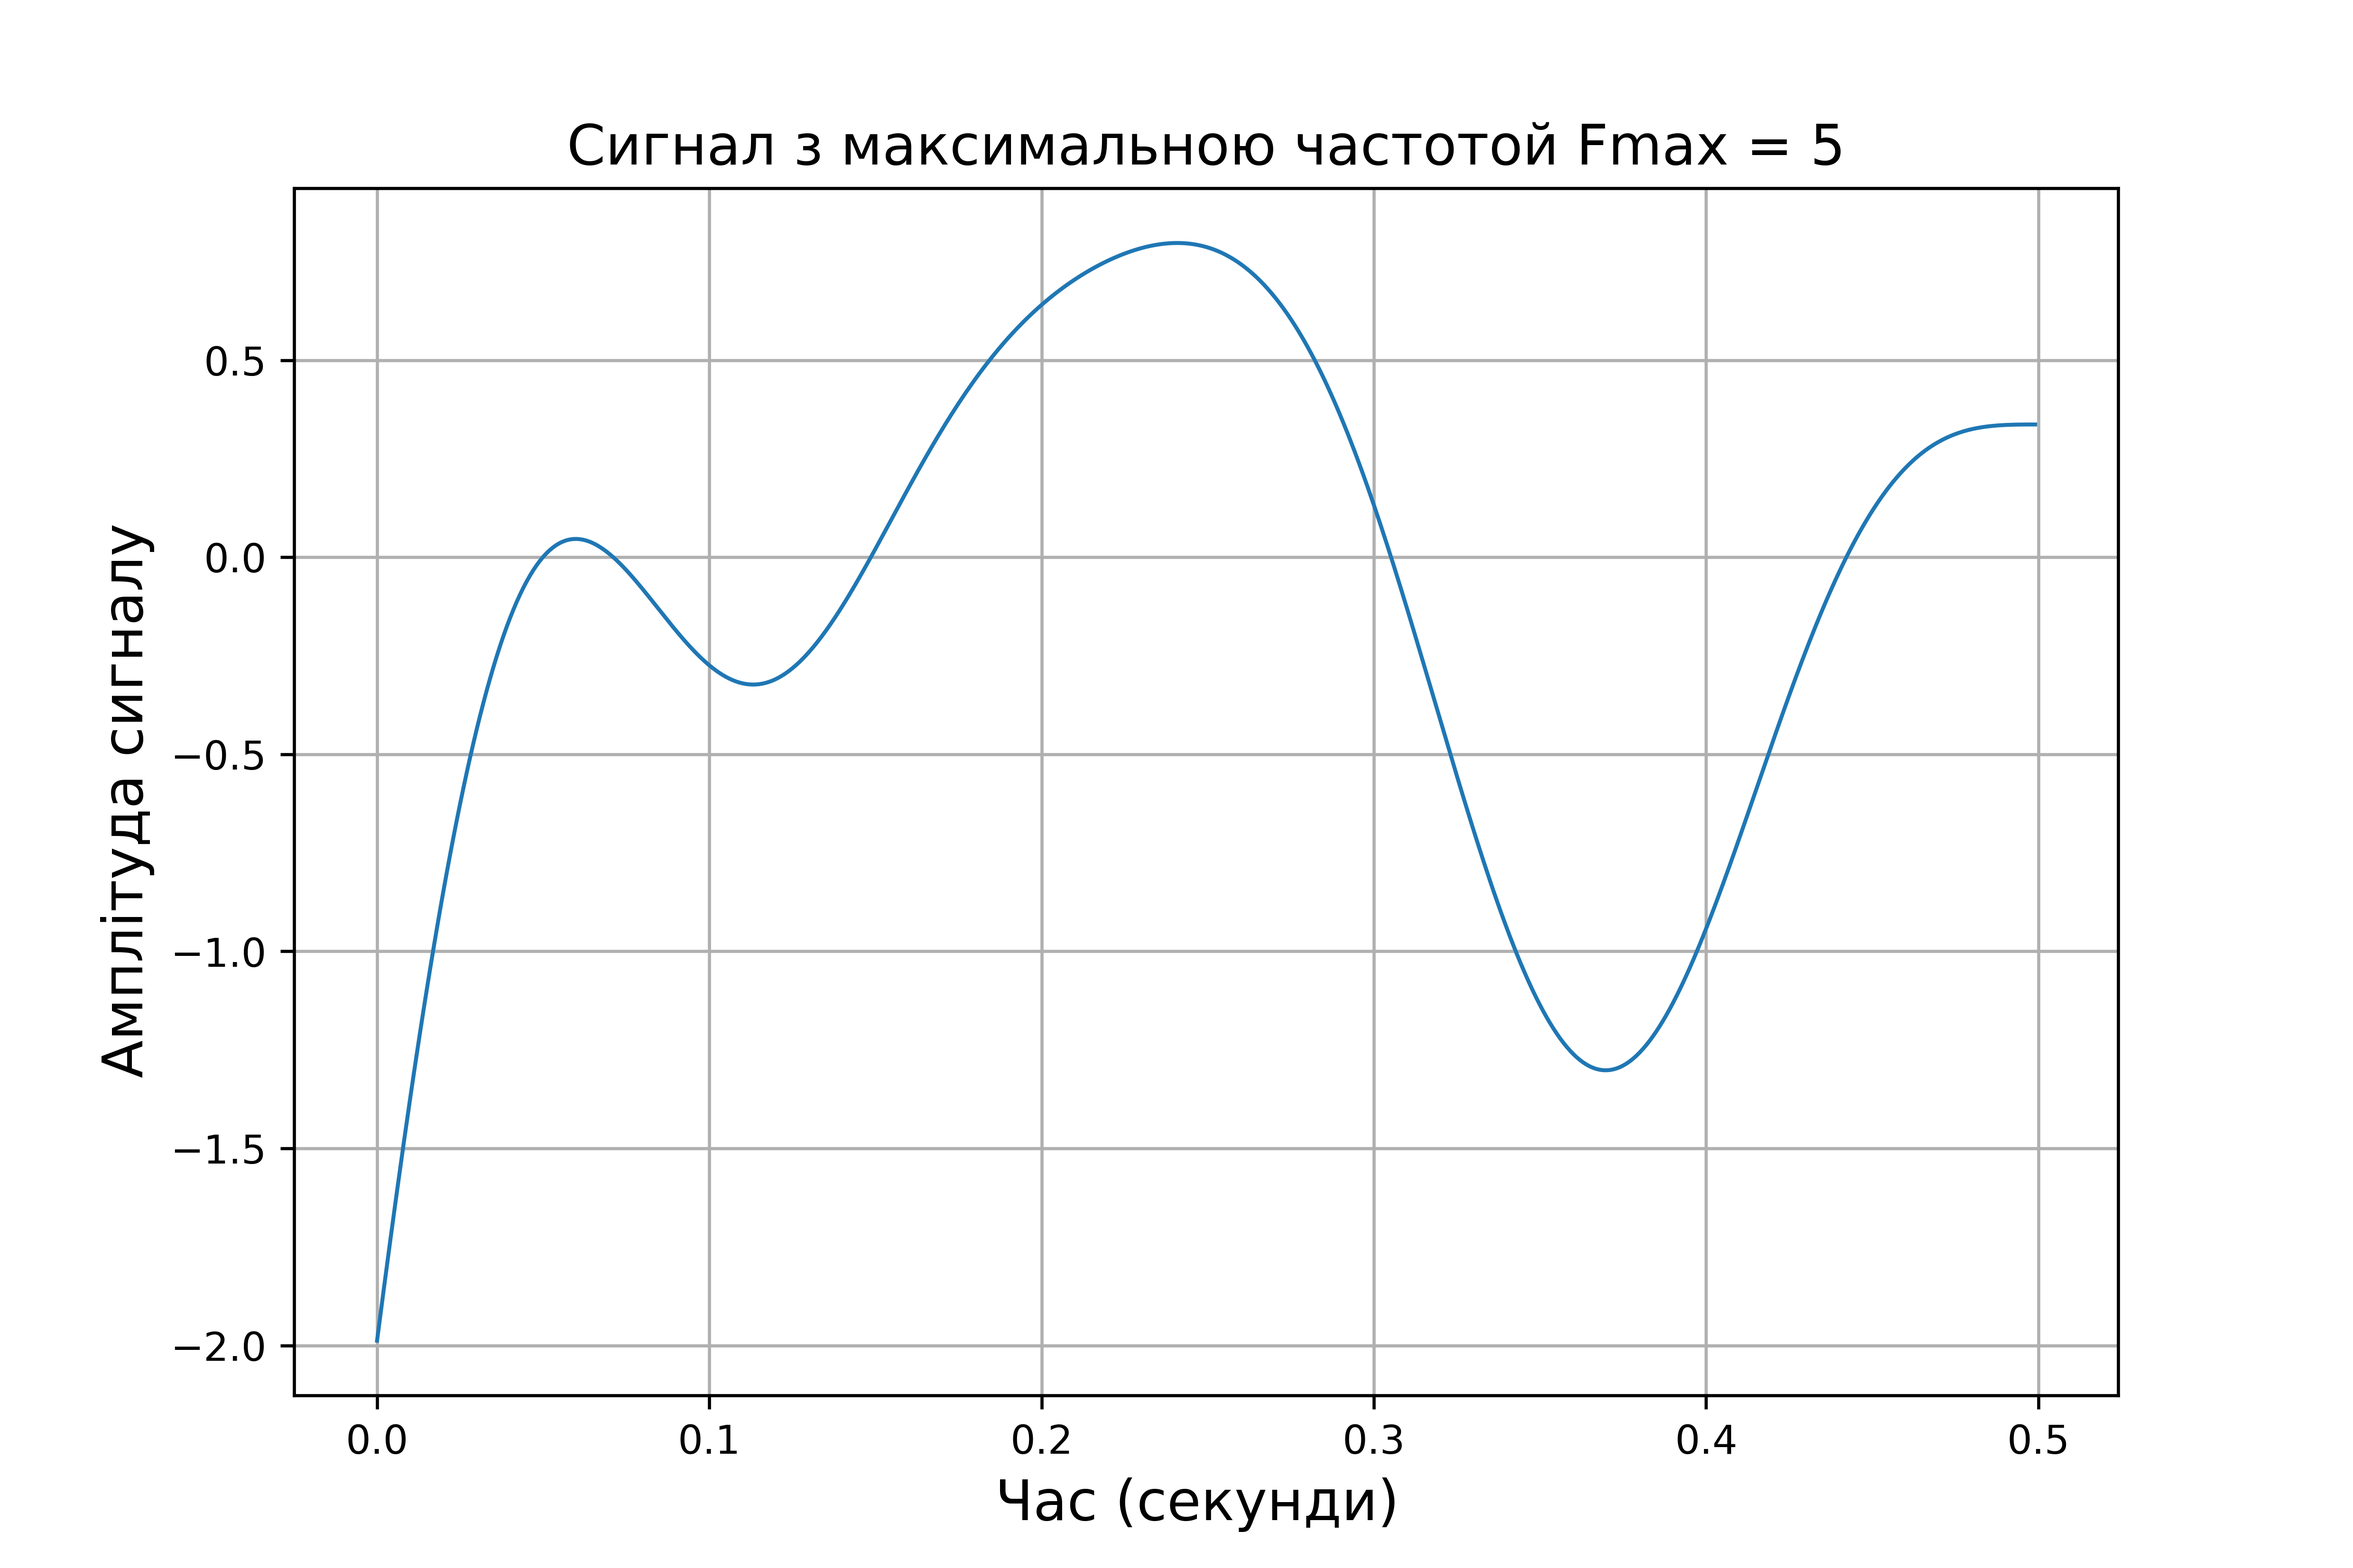
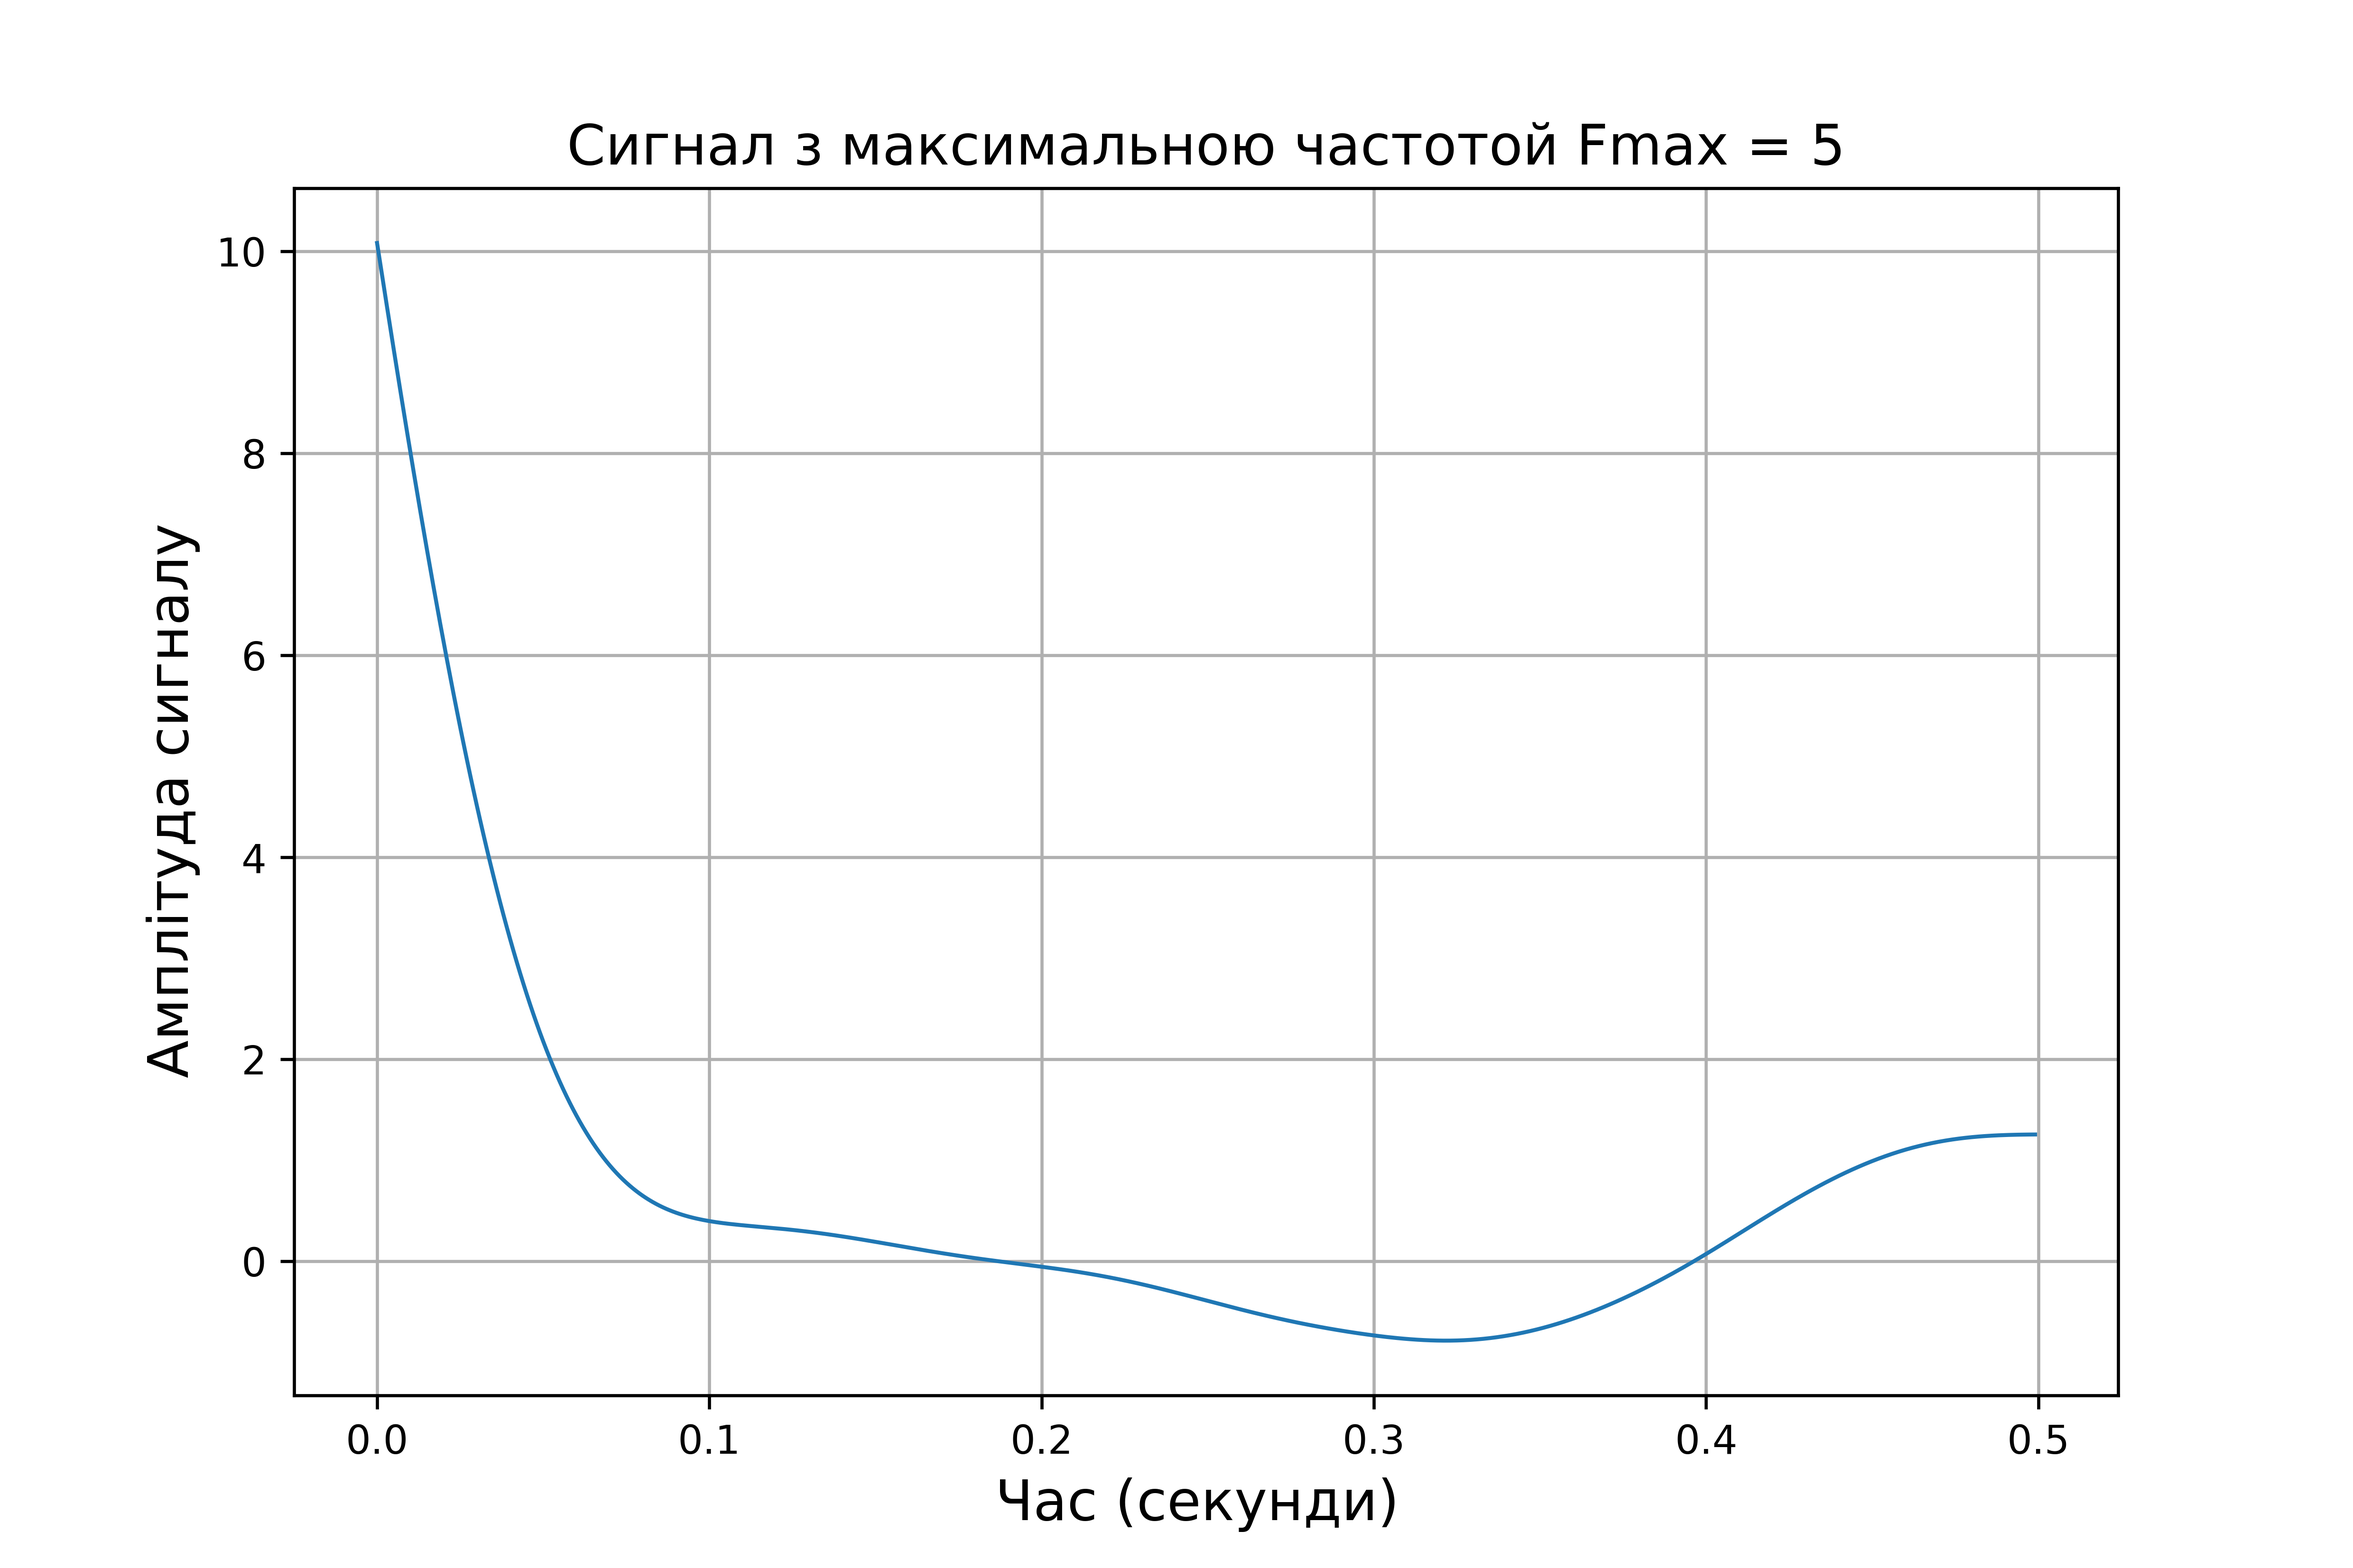
Signal Processing 2

diff --git a/SignalProcessing/SignalProcessing.py b/SignalProcessing/SignalProcessing.py
@@ -1,4 +1,3 @@
-from scipy import signal, fft
 import numpy
 import scipy
 import matplotlib.pyplot as plt
@@ -39,3 +38,82 @@ ax.set_ylabel("Амплітуда спектра ", fontsize = 14)
 plt.title("Спектр сигнала с максимальной частотой Fmax = 5", fontsize = 14)
 ax.grid()
 fig.savefig('./figures/' + 'графік 2' + '.png', dpi=600)
+
+F_filter = 12
+dispersions = []
+signal_noise = []
+discrete_spectrums = []
+E1 = []
+discrete_signals = []
+discrete_signal_after_filers = []
+w = F_filter / (Fs / 2)
+parameters_fil = scipy.signal.butter(3, w, 'low', output='sos')
+filtered_signal_2 = None
+for Dt in [2, 4, 8, 16]:
+    discrete_signal = numpy.zeros(n)
+    for i in range(0, round(n / Dt)):
+        discrete_signal[i * Dt] = filtered_signal[i * Dt]
+        filtered_signal_2 = scipy.signal.sosfiltfilt(parameters_fil, discrete_signal)
+    discrete_signals += [list(discrete_signal)]
+    discrete_spectrum = scipy.fft.fft(discrete_signals)
+    discrete_spectrum = numpy.abs(scipy.fft.fftshift(discrete_spectrum))
+    discrete_spectrums.append(list(discrete_spectrum))
+    discrete_signal_after_filers += [list(filtered_signal_2)]
+
+for i in range(4):
+    E1 = discrete_signal_after_filers[i] - filtered_signal
+    dispersion = numpy.var(E1)
+    dispersions.append(dispersion)
+    signal_noise.append(numpy.var(filtered_signal)/dispersion)
+
+fig, ax = plt.subplots(2, 2, figsize=(21/2.54, 14/2.54))
+s = 0
+for i in range(0, 2):
+    for j in range(0, 2):
+        ax[i][j].plot(time_line_ox, discrete_signals[s], linewidth=1)
+        ax[i][j].grid()
+        s += 1
+fig.supxlabel('Час (секунди)', fontsize=14)
+fig.supylabel('Амплітуда сигналу', fontsize=14)
+fig.suptitle('Сигнал з кроком дискретизації Dt = (2,4,8,16)', fontsize=14)
+fig.savefig('./figures/' + 'графік 3' + '.png', dpi=600)
+
+s = 0
+fig, ax = plt.subplots(2, 2, figsize=(21 / 2.54, 14 / 2.54))
+for i in range(0, 2):
+    for j in range(0, 2):
+        ax[i][j].plot(freq_countdown, discrete_spectrum[s], linewidth=1)
+        s += 1
+fig.supxlabel("Частота (Гц)", fontsize=14)
+fig.supylabel("Амплитуда спектра", fontsize=14)
+fig.suptitle("Сигнал з шагом дискретизации Dt = (2, 4, 8, 16)", fontsize=14)
+fig.savefig('./figures/' + 'график 4' + '.png', dpi=600)
+
+fig, ax = plt.subplots(2, 2, figsize=(21/2.54, 14/2.54))
+s = 0
+for i in range(0, 2):
+    for j in range(0, 2):
+        ax[i][j].plot(time_line_ox, discrete_signal_after_filers[s], linewidth=1)
+        ax[i][j].grid()
+        s += 1
+fig.supxlabel('Час (секунди)', fontsize=14)
+fig.supylabel('Амплітуда сигналу', fontsize=14)
+fig.suptitle('Відновлені аналогові сигнали з кроком дискретизації Dt = (2,4,8,16)', fontsize=14)
+fig.savefig('./figures/' + 'графік 5' + '.png', dpi=600)
+
+fig, ax = plt.subplots(figsize=(21/2.54, 14/2.54))
+ax.plot((2,4,8,16), dispersions, linewidth=1)
+ax.set_xlabel('Крок дискретизації', fontsize=14)
+ax.set_ylabel('Дисперсія', fontsize=14)
+plt.title(f'Залежність дисперсії від кроку дискретизації', fontsize=14)
+ax.grid()
+fig.savefig('./figures/' + 'графік 6' + '.png', dpi=600)
+
+fig, ax = plt.subplots(figsize=(21/2.54, 14/2.54))
+ax.plot((2,4,8,16), signal_noise, linewidth=1)
+ax.set_xlabel('Крок дискретизації', fontsize=14)
+ax.set_ylabel('ССШ', fontsize=14)
+plt.title(f'Залежність співвідношення сигнал-шум від кроку дискретизації', fontsize=14)
+ax.grid()
+fig.savefig('./figures/' + 'графік 7' + '.png', dpi=600)
+
